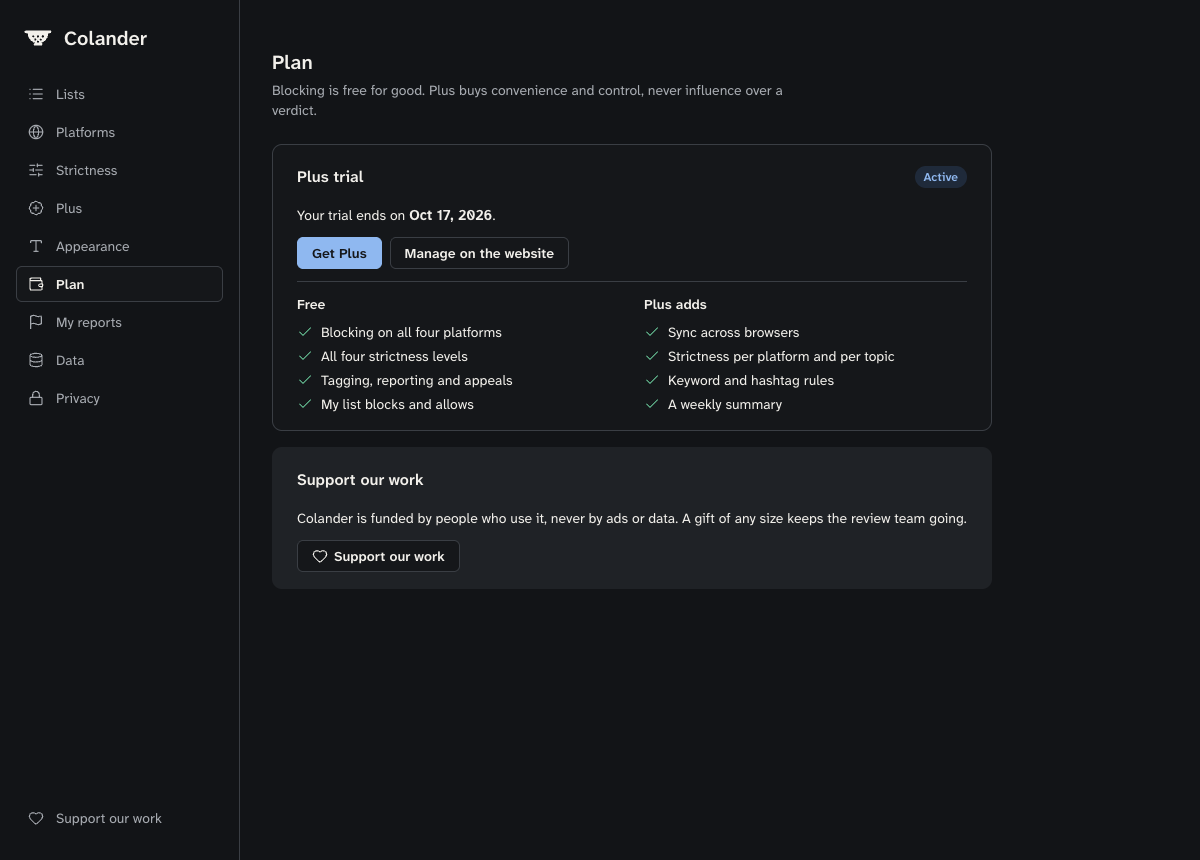
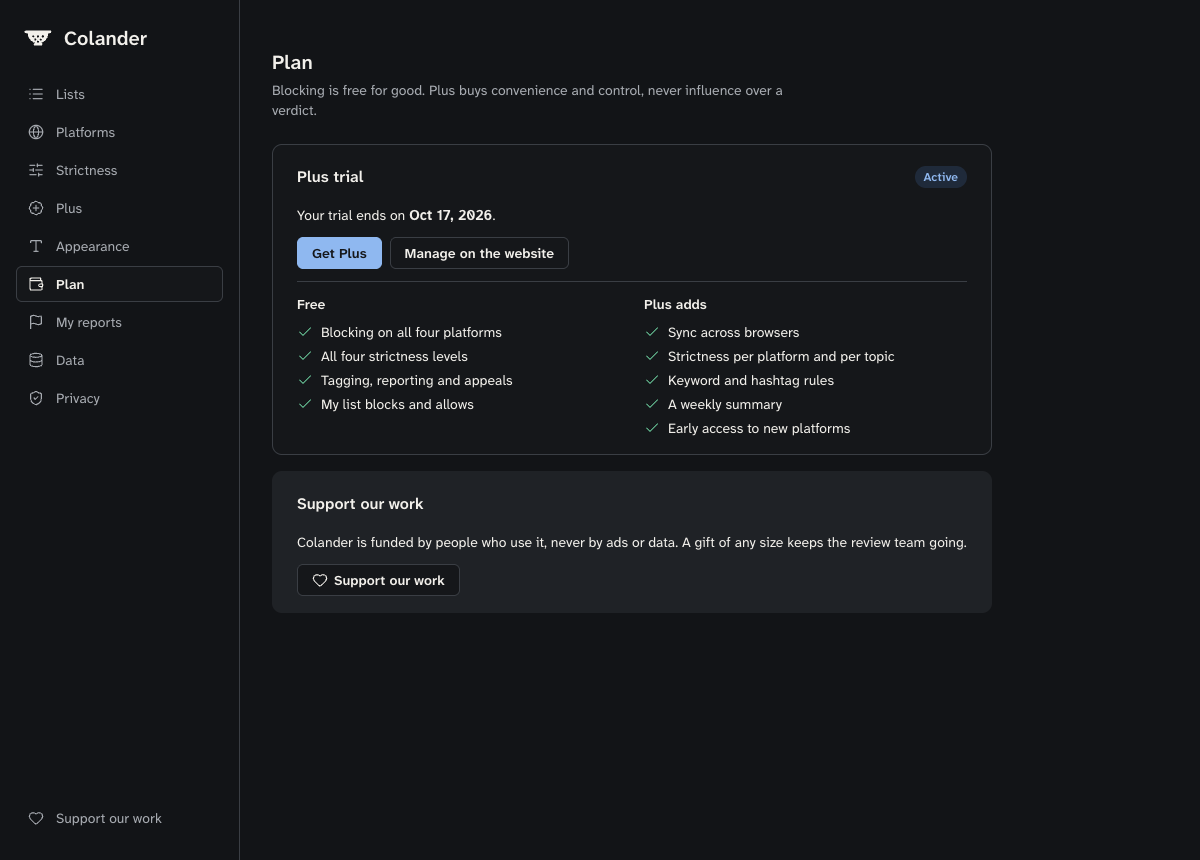
Refresh screenshots, add Why with every signal, clamp shelf titles in the fixture
Screenshots now show the weekly summary in the popup, the 3:1 switch track,
the shield-check Privacy icon, Plus early access in Plan, and a Why popover
with four signals on one wrapping line. The stand-in YouTube CSS let a long
run of hashtags in a Shorts shelf title run into the next tile; titles now
clamp to two lines like on YouTube.

Changed region(s): [[0.2467, 0.5442, 0.8017, 0.6953], [0.555, 0.4837, 0.7092, 0.514]]

diff --git a/extension/tests/e2e/shots.spec.ts b/extension/tests/e2e/shots.spec.ts
@@ -101,6 +101,14 @@ for (const scheme of ['light', 'dark'] as const) {
 			await cards.nth(2).screenshot({ path: `screenshots/inpage-chip-plain-${scheme}.png`, animations: 'disabled' });
 			await ext.send({ type: 'settings', patch: { plainChips: false } });
 
+			// Why on a Slop source with four signals, at Label so its chip stays: every signal on one wrapping line.
+			await ext.send({ type: 'settings', patch: { strictness: 'label' } });
+			await cards.nth(0).locator('colander-ui[data-kind="chip"] button').click();
+			await expect(page.locator('colander-ui[data-kind="layer"] .why-sig li')).toHaveCount(4);
+			await page.waitForTimeout(150);
+			await page.screenshot({ path: `screenshots/inpage-why-signals-${scheme}.png`, clip: { x: 0, y: 0, width: 760, height: 420 }, animations: 'disabled' });
+			await page.keyboard.press('Escape');
+
 			// Home grid at Strict: hidden, collapsed and labeled cards side by side.
 			await ext.send({ type: 'settings', patch: { strictness: 'strict' } });
 			const home = await ext.open('https://www.youtube.com/', { dark });

diff --git a/extension/tests/fixtures/styles/yt.css b/extension/tests/fixtures/styles/yt.css
@@ -51,6 +51,8 @@ ytd-search ytd-reel-shelf-renderer, ytd-search grid-shelf-view-model { margin: 8
 ytd-search [class*='ShelfViewModel'] #items, ytd-search grid-shelf-view-model .ytGridShelfViewModelGridShelfRow, ytd-search ytd-reel-shelf-renderer #items { display: flex; gap: 8px; }
 ytm-shorts-lockup-view-model { width: 210px; flex: none; }
 .shortsLockupViewModelHostOutsideMetadata { padding-top: 8px; }
+/* Like YouTube: two lines at most, and a long run of hashtags breaks instead of running into the next tile. */
+.shortsLockupViewModelHostOutsideMetadataTitle { display: -webkit-box; -webkit-box-orient: vertical; -webkit-line-clamp: 2; overflow: hidden; overflow-wrap: anywhere; }
 
 /* Watch page: the related list. */
 ytd-watch-flexy #columns { display: flex; justify-content: flex-end; }
